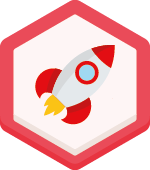
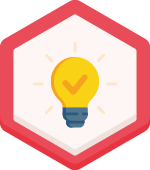
mostrando medallas por programa, ajustando estilos

Changed region(s): [[0.2133, 0.2353, 0.7733, 0.7647], [0.64, 0.6176, 0.72, 0.6765]]

diff --git a/web/js/front/usuario.js b/web/js/front/usuario.js
@@ -161,25 +161,12 @@ $(document).ready(function() {
 			dataType: "json",
 			success: function(data) {
 				//console.log(data);
-				/*if (data.html =='1') 
+				if(data)
 				{
-					$('#label-correo').html(data.correo);
-					$('#label-correo_corporativo').html(data.correo_corporativo);
-					$('#label-fn').html(data.fechaNacimiento);
-					$('.boton').show();
-					$('#wait_profile').hide(1000);
-					$('#correo_exito').show();
-					setTimeout(function(){ $('#correo_exito').hide(); }, 3000);
-					//$( ".close" ).trigger( "click" );
-
-				}else
-				{
-					$('#correo_usado').html(data.html);
-					$('#correo_usado').show();
-					$('#correo_secundario').focus();
-					$('.boton').show();
-					$('#wait_profile').hide(1000);
-				}*/
+					$('#achivements_result_container').html(data);
+					$('#achievements-container').show();
+					$('#achivements_result_container').show();
+				}
 			},
 			error: function(){
 				console.log('Error guardando los datos del perfil del usuario'); // Hay que implementar los mensajes de error para el frontend

diff --git a/src/Link/FrontendBundle/Controller/UsuarioController.php b/src/Link/FrontendBundle/Controller/UsuarioController.php
@@ -182,6 +182,11 @@ class UsuarioController extends Controller
         //return new response($pagina_id.' '.$usuario_id);
         $f = $this->get('funciones');
         $medallas = array();
+        $html ='';
+        $contador = 0;
+        $repetido = 0;
+        $contador21 = 0;
+        $dir_project = $this->container->getParameter('folders')['dir_project'];
 
         $query = $em->createQuery('SELECT mu FROM LinkComunBundle:AdminMedallasUsuario mu
                                    WHERE mu.usuario = :usuario_id
@@ -191,19 +196,95 @@ class UsuarioController extends Controller
         $medallasUsuario = $query->getResult();
 
         $query = $em->createQuery('SELECT m FROM LinkComunBundle:AdminMedallas m
-                                   ORDER BY m.id ASC');
+                                   ORDER BY m.id DESC');
         $medallasorden = $query->getResult();
 
+        foreach($medallasorden as $medallaorden)
+        {  
+            $medalla = 0;
+            foreach($medallasUsuario as $medallaUsuario)
+            {   
+                if($medallaorden->getId() == $medallaUsuario->getMedalla()->getId())
+                {
+                    if($medallaUsuario->getMedalla()->getId() == '10' || $medallaUsuario->getMedalla()->getId() == '11' || $medallaUsuario->getMedalla()->getId() == '12' || $medallaUsuario->getMedalla()->getId() == '13'  )
+                    {
+                        if($repetido == '0')
+                        {
+                            $repetido = 1;
+                            $medalla = 1;
+                            $html .='<div class="card-achievement green-line">
+                                        <img src="/formacion2.0/web/front/assets/img/recurso-'.$medallaorden->getId().'.png" alt="" class="card-achievement__badge achieved">
+                                        <div class="card-achievement__details">
+                                            <h4 class="card-achievement__title">'.$medallaorden->getNombre().$medallaorden->getId().' true</h4>
+                                            <p class="card-achievement__condition">'.$medallaUsuario->getMedalla()->getDescripcion().'</p>
+                                        </div>
+                                    </div>';
+                        }
 
-        foreach($medallasUsuario as $medallaUsuario)
-        {
-            $medallas = array('id' => $medallaUsuario->getMedalla()->getId(),
-                              'nombre' => $medallaUsuario->getMedalla()->getNombre(),
-                              'descripcion' => $medallaUsuario->getMedalla()->getDescripcion());
+                    }else{
+                        $medalla = 1;
+                        
+                        $html .='<div class="card-achievement green-line">
+                                    <img src="/formacion2.0/web/front/assets/img/recurso-'.$medallaorden->getId().'.png" alt="" class="card-achievement__badge achieved">
+                                    <div class="card-achievement__details">
+                                        <h4 class="card-achievement__title">'.$medallaorden->getNombre().$medallaorden->getId().' true</h4>
+                                        <p class="card-achievement__condition">'.$medallaUsuario->getMedalla()->getDescripcion().'</p>
+                                    </div>
+                                </div>';
+                    }
+                    
+                }
+                
+            }
+            
+            if($medalla == '0' && $repetido == '0')
+            {   
+                
+                if($medallaorden->getId() == '10' || $medallaorden->getId() == '11' || $medallaorden->getId() == '12' || $medallaorden->getId() == '13'  )
+                {    
+                    $contador = $contador + 1;
+                    if($contador == 4)
+                    {
+                        $html .='<div class="card-achievement green-line">
+                                    <img src="/formacion2.0/web/front/assets/img/recurso-'.$medallaorden->getId().'.png" alt="" class="card-achievement__badge ">
+                                    <div class="card-achievement__details">
+                                        <h4 class="card-achievement__title">'.$medallaorden->getNombre().$medallaorden->getId().'</h4>
+                                        <p class="card-achievement__condition">'.$medallaUsuario->getMedalla()->getDescripcion().'</p>
+                                    </div>
+                                </div>';
+                    }
+                }else
+                {
+                    $html .='<div class="card-achievement green-line">
+                                <img src="/formacion2.0/web/front/assets/img/recurso-'.$medallaorden->getId().'.png" alt="" class="card-achievement__badge ">
+                                <div class="card-achievement__details">
+                                    <h4 class="card-achievement__title">'.$medallaorden->getNombre().$medallaorden->getId().'</h4>
+                                    <p class="card-achievement__condition">'.$medallaUsuario->getMedalla()->getDescripcion().'</p>
+                                </div>
+                            </div>';
+                }
+            }
+            else{
+                if($medallaorden->getId() != '10' && $medallaorden->getId() != '11' && $medallaorden->getId() != '12' && $medallaorden->getId() && '13' && $medalla == '0'  )
+                {
+                    
+                    $html .='<div class="card-achievement green-line">
+                                <img src="/formacion2.0/web/front/assets/img/recurso-'.$medallaorden->getId().'.png" alt="" class="card-achievement__badge ">
+                                <div class="card-achievement__details">
+                                    <h4 class="card-achievement__title">'.$medallaorden->getNombre().$medallaorden->getId().'</h4>
+                                    <p class="card-achievement__condition">'.$medallaUsuario->getMedalla()->getDescripcion().'</p>
+                                </div>
+                            </div>';
+                }
+            }
         }
-        return new response(var_dump($medallasorden));
+       // return new response($medalla.' '.$repetido);
+        
 
-        $return = $medallas;
+        
+        //return new response($html);
+
+        $return = $html;
 
         $return = json_encode($return);
         return new Response($return, 200, array('Content-Type' => 'application/json'));
